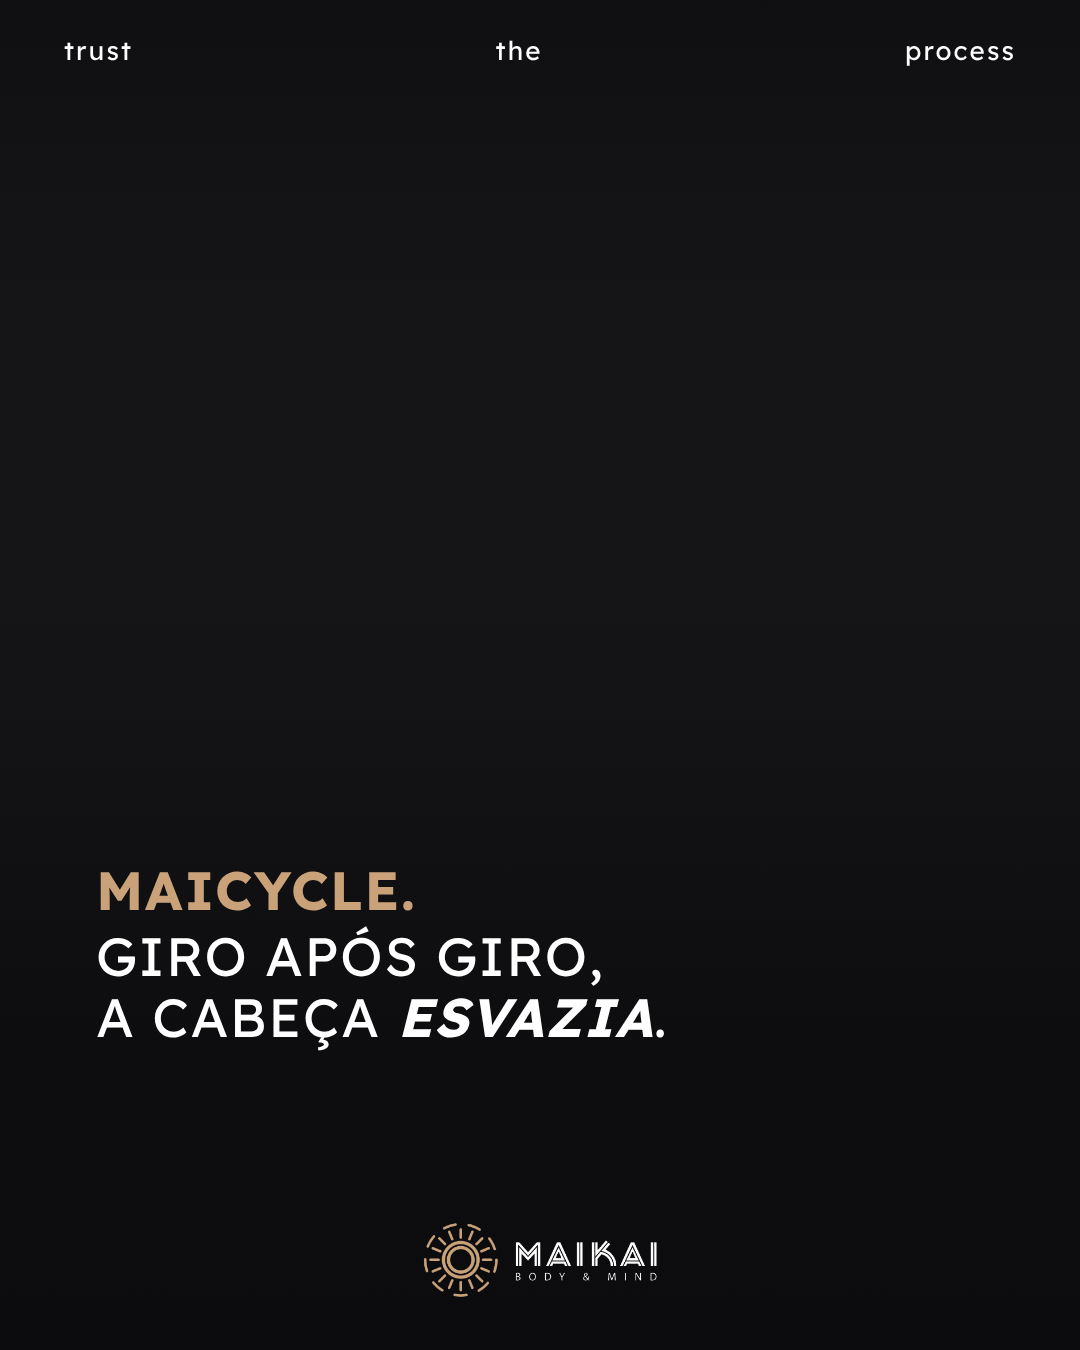
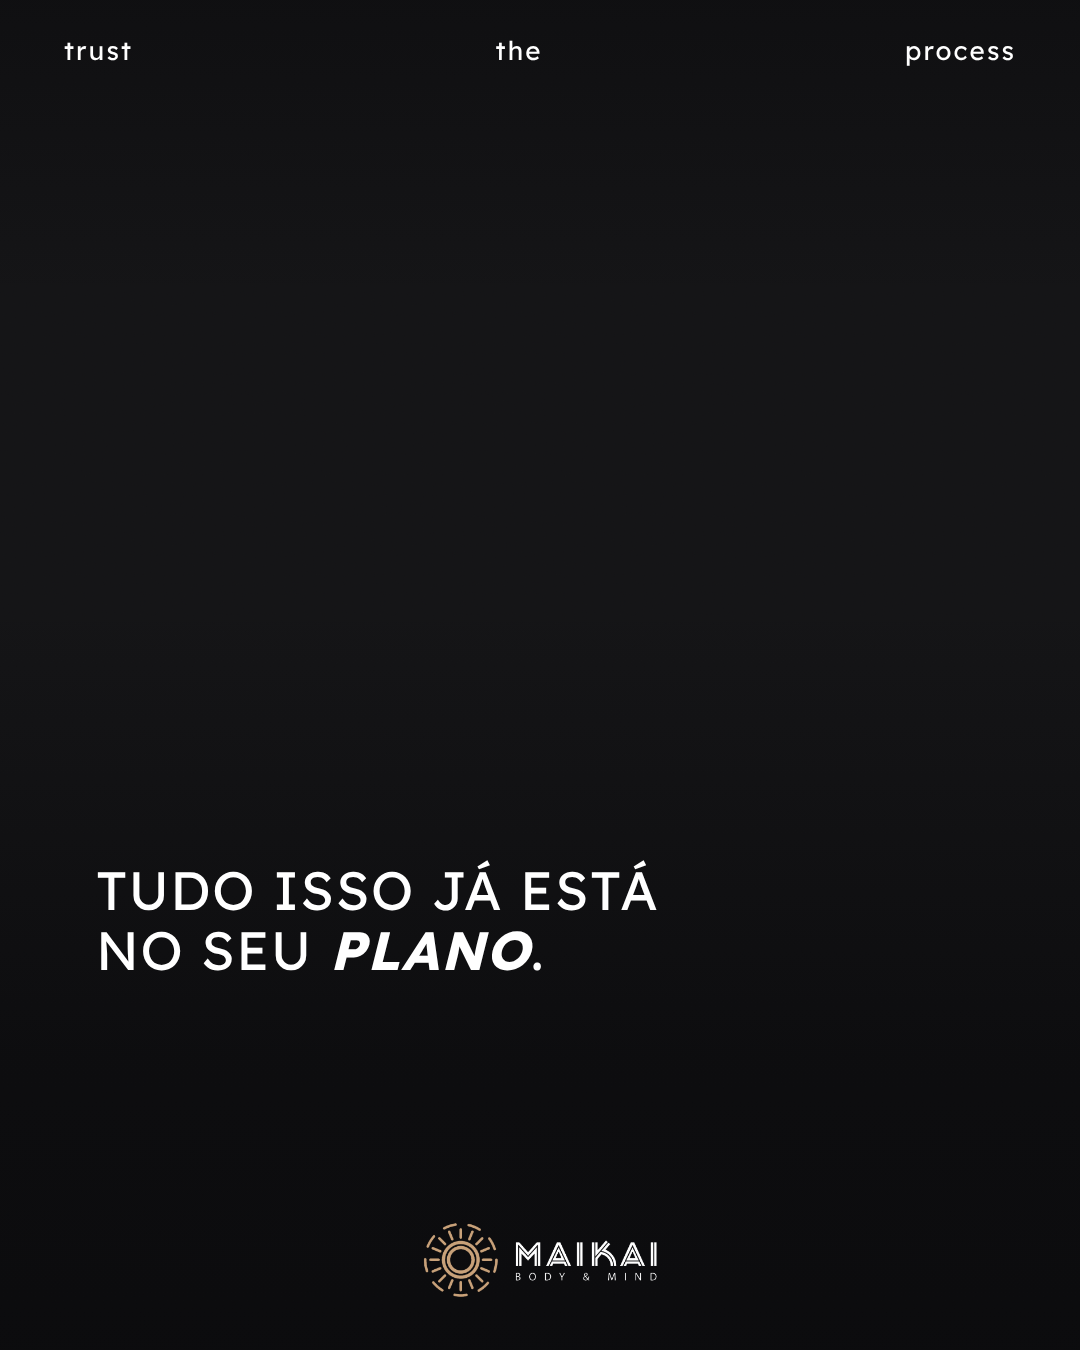
feat: carrossel de 12/10 reduzido a 3 cards (capa, lista, fechamento)
Claude-Session: https://claude.ai/code/session_01RLkfM9BkSedABhKqiE22hc

Changed region(s): [[0.0917, 0.6222, 0.6111, 0.7778]]

diff --git a/maikai/carrossel-aulas-inclusas/carrossel.html b/maikai/carrossel-aulas-inclusas/carrossel.html
@@ -48,6 +48,11 @@
   .texto .apoio { display: block; margin-top: 28px; text-transform: none; font-size: 40px; letter-spacing: .01em;
                   line-height: 1.25; color: var(--muted); }
 
+  .lista { position: absolute; left: 96px; right: 96px; top: 380px; list-style: none;
+           font-size: 52px; letter-spacing: .03em; font-weight: 700; }
+  .lista li { padding: 14px 0; border-bottom: 2px solid rgba(201,162,122,.45); }
+  .lista li:last-child { border-bottom: 0; }
+
   .logo { position: absolute; bottom: 52px; left: 50%; transform: translateX(-50%); width: 236px; }
 
   /* Versão só com texto e logo, para aplicar por cima da foto em outro programa. */
@@ -63,88 +68,28 @@
   <div class="foto" style="--img: url('fotos/01-capa.jpg')"></div>
   <div class="sombra"></div><div class="grao"></div>
   <div class="topo"><span>trust</span><span>the</span><span>process</span></div>
-  <div class="texto"><span class="nome">Oito aulas.</span>Nenhuma <em>à parte</em>.</div>
+  <div class="texto"><span class="nome">8 modalidades.</span>Nenhuma <em>à parte</em>.</div>
   <img class="logo" src="logo-maikai-negativo.png" alt="Maikai Body &amp; Mind">
 </section>
 
-<!-- 2. Fire Bike -->
+<!-- 2. Lista -->
 <section class="slide">
-  <div class="foto" style="--img: url('fotos/02-fire-bike.jpg')"></div>
+  <div class="foto" style="--img: url('fotos/02-lista.jpg')"></div>
   <div class="sombra"></div><div class="grao"></div>
   <div class="topo"><span>trust</span><span>the</span><span>process</span></div>
-  <div class="texto"><span class="nome">Fire Bike.</span>A música manda<br>no <em>pedal</em>.</div>
+  <ul class="lista">
+    <li>Fire Bike</li><li>Maicycle</li><li>Yoga</li><li>Boxe</li>
+    <li>Glute Zone</li><li>Mat Pilates</li><li>MaiRun</li><li>MaiDance</li>
+  </ul>
   <img class="logo" src="logo-maikai-negativo.png" alt="Maikai Body &amp; Mind">
 </section>
 
-<!-- 3. Maicycle -->
+<!-- 3. Fechamento -->
 <section class="slide">
-  <div class="foto" style="--img: url('fotos/03-maicycle.jpg')"></div>
+  <div class="foto" style="--img: url('fotos/03-fechamento.jpg')"></div>
   <div class="sombra"></div><div class="grao"></div>
   <div class="topo"><span>trust</span><span>the</span><span>process</span></div>
-  <div class="texto"><span class="nome">Maicycle.</span>Giro após giro,<br>a cabeça <em>esvazia</em>.</div>
-  <img class="logo" src="logo-maikai-negativo.png" alt="Maikai Body &amp; Mind">
-</section>
-
-<!-- 4. Yoga -->
-<section class="slide">
-  <div class="foto" style="--img: url('fotos/04-yoga.jpg')"></div>
-  <div class="sombra"></div><div class="grao"></div>
-  <div class="topo"><span>trust</span><span>the</span><span>process</span></div>
-  <div class="texto"><span class="nome">Yoga.</span>Respirar também<br>é <em>treino</em>.</div>
-  <img class="logo" src="logo-maikai-negativo.png" alt="Maikai Body &amp; Mind">
-</section>
-
-<!-- 5. Boxe -->
-<section class="slide">
-  <div class="foto" style="--img: url('fotos/05-boxe.jpg')"></div>
-  <div class="sombra"></div><div class="grao"></div>
-  <div class="topo"><span>trust</span><span>the</span><span>process</span></div>
-  <div class="texto"><span class="nome">Boxe.</span>O resto do dia fica<br>do lado de <em>fora</em>.</div>
-  <img class="logo" src="logo-maikai-negativo.png" alt="Maikai Body &amp; Mind">
-</section>
-
-<!-- 6. Glute Zone -->
-<section class="slide">
-  <div class="foto" style="--img: url('fotos/06-glute-zone.jpg')"></div>
-  <div class="sombra"></div><div class="grao"></div>
-  <div class="topo"><span>trust</span><span>the</span><span>process</span></div>
-  <div class="texto"><span class="nome">Glute Zone.</span>Uma série<br>de cada <em>vez</em>.</div>
-  <img class="logo" src="logo-maikai-negativo.png" alt="Maikai Body &amp; Mind">
-</section>
-
-<!-- 7. Mat Pilates -->
-<section class="slide">
-  <div class="foto" style="--img: url('fotos/07-mat-pilates.jpg')"></div>
-  <div class="sombra"></div><div class="grao"></div>
-  <div class="topo"><span>trust</span><span>the</span><span>process</span></div>
-  <div class="texto"><span class="nome">Mat Pilates.</span>Força que<br>ninguém <em>vê</em>.</div>
-  <img class="logo" src="logo-maikai-negativo.png" alt="Maikai Body &amp; Mind">
-</section>
-
-<!-- 8. MaiRun -->
-<section class="slide">
-  <div class="foto" style="--img: url('fotos/08-mairun.jpg')"></div>
-  <div class="sombra"></div><div class="grao"></div>
-  <div class="topo"><span>trust</span><span>the</span><span>process</span></div>
-  <div class="texto"><span class="nome">MaiRun.</span>Um passo puxa<br>o <em>outro</em>.</div>
-  <img class="logo" src="logo-maikai-negativo.png" alt="Maikai Body &amp; Mind">
-</section>
-
-<!-- 9. MaiDance -->
-<section class="slide">
-  <div class="foto" style="--img: url('fotos/09-maidance.jpg')"></div>
-  <div class="sombra"></div><div class="grao"></div>
-  <div class="topo"><span>trust</span><span>the</span><span>process</span></div>
-  <div class="texto"><span class="nome">MaiDance.</span>Suar sem<br><em>perceber</em>.</div>
-  <img class="logo" src="logo-maikai-negativo.png" alt="Maikai Body &amp; Mind">
-</section>
-
-<!-- 10. Fechamento -->
-<section class="slide">
-  <div class="foto" style="--img: url('fotos/10-fechamento.jpg')"></div>
-  <div class="sombra"></div><div class="grao"></div>
-  <div class="topo"><span>trust</span><span>the</span><span>process</span></div>
-  <div class="texto" style="top: 800px">Tudo isso já está<br>no seu <em>plano</em>.<span class="apoio">A gente guarda um lugar pra você.</span></div>
+  <div class="texto">Tudo isso já está<br>no seu <em>plano</em>.</div>
   <img class="logo" src="logo-maikai-negativo.png" alt="Maikai Body &amp; Mind">
 </section>
 
